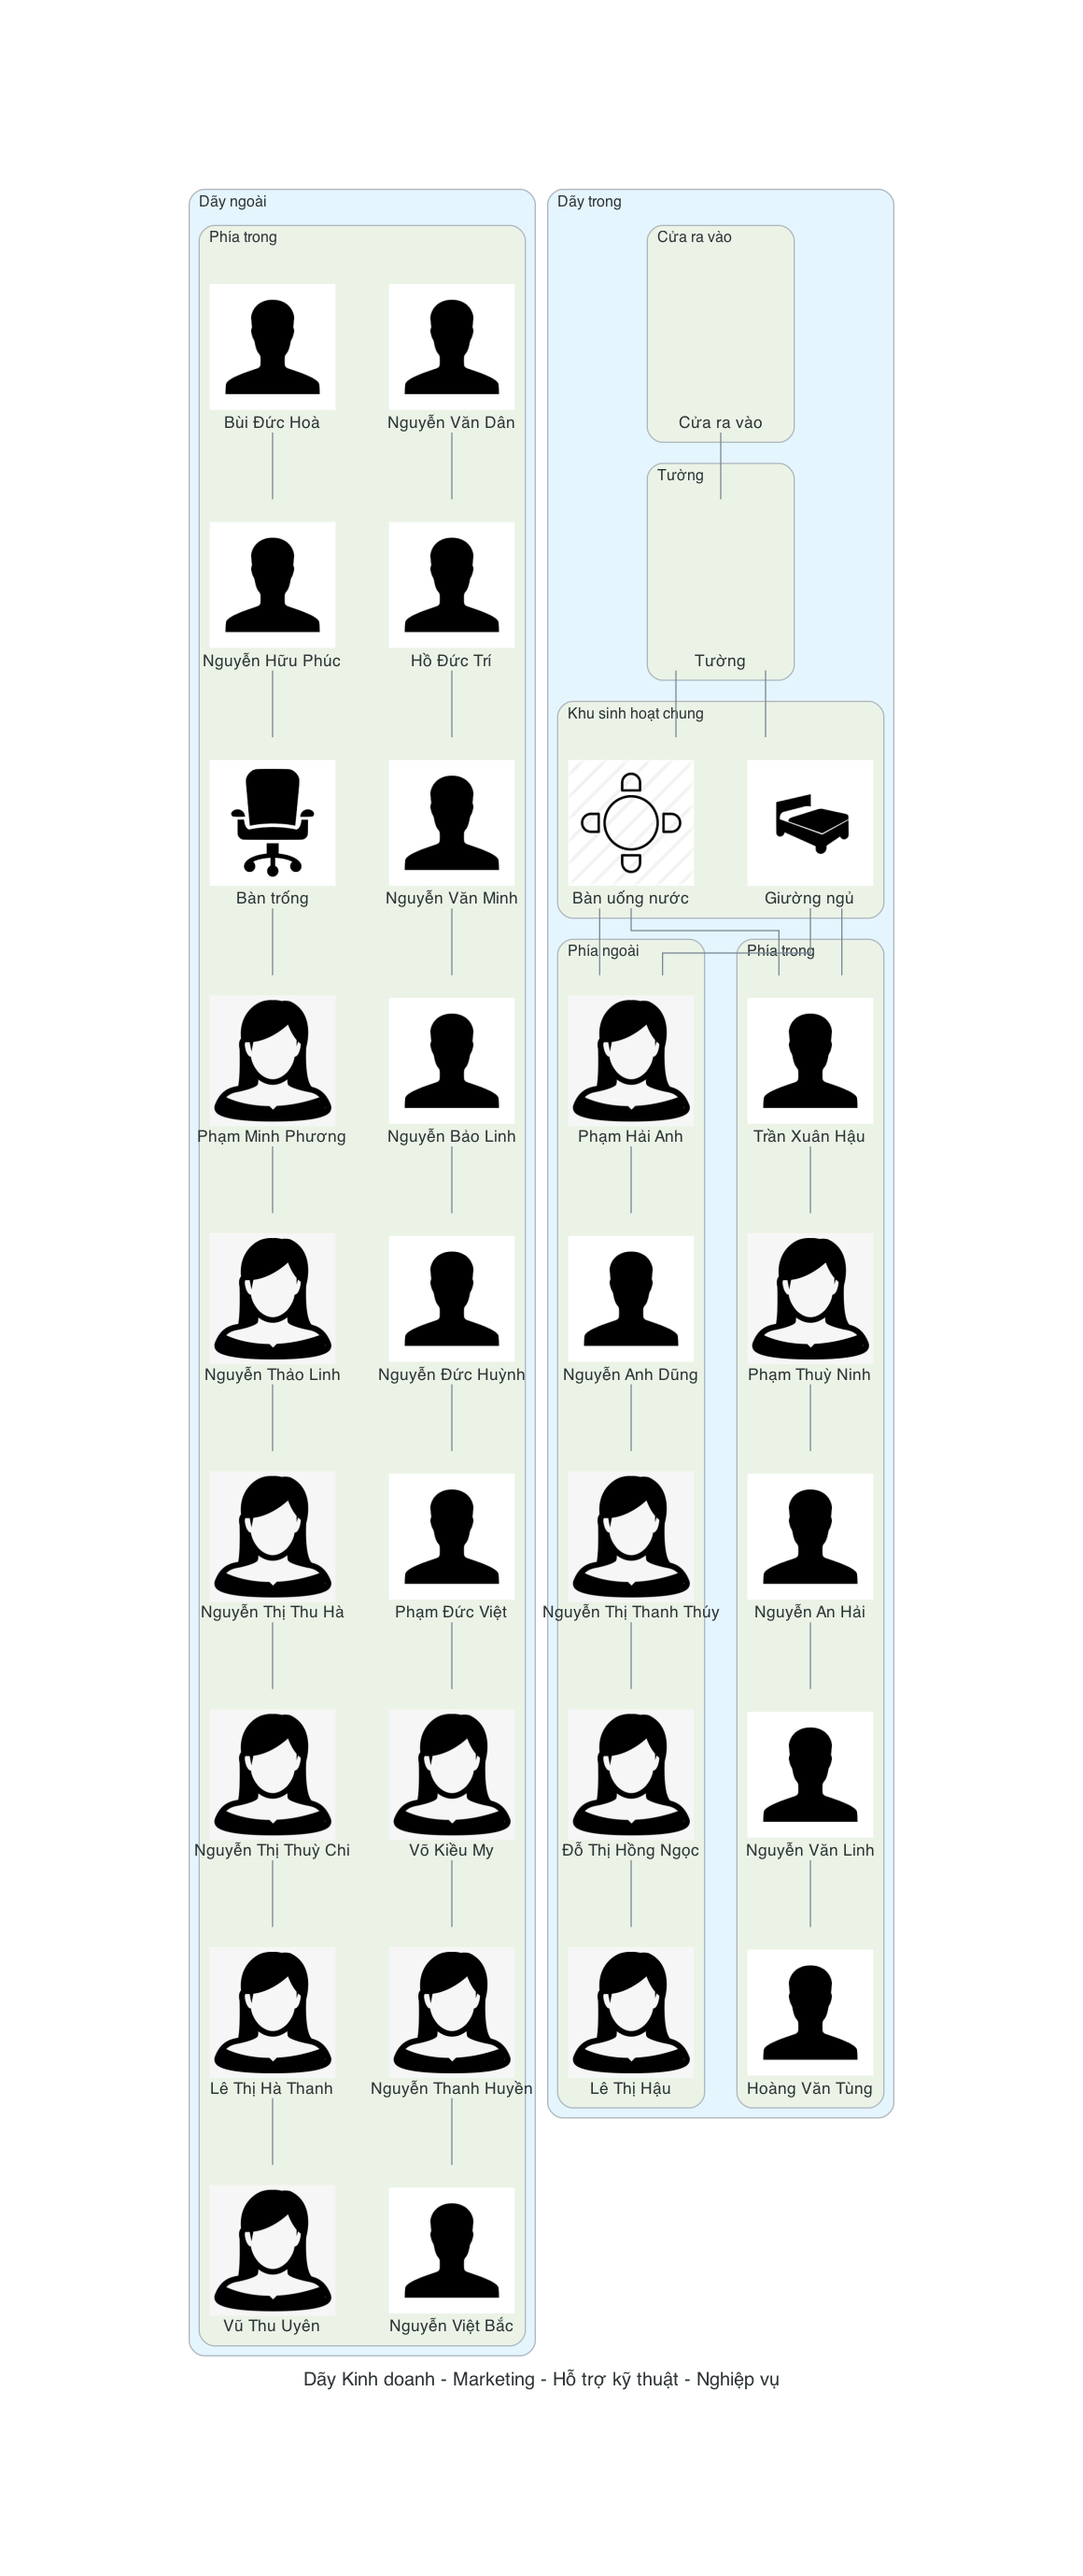
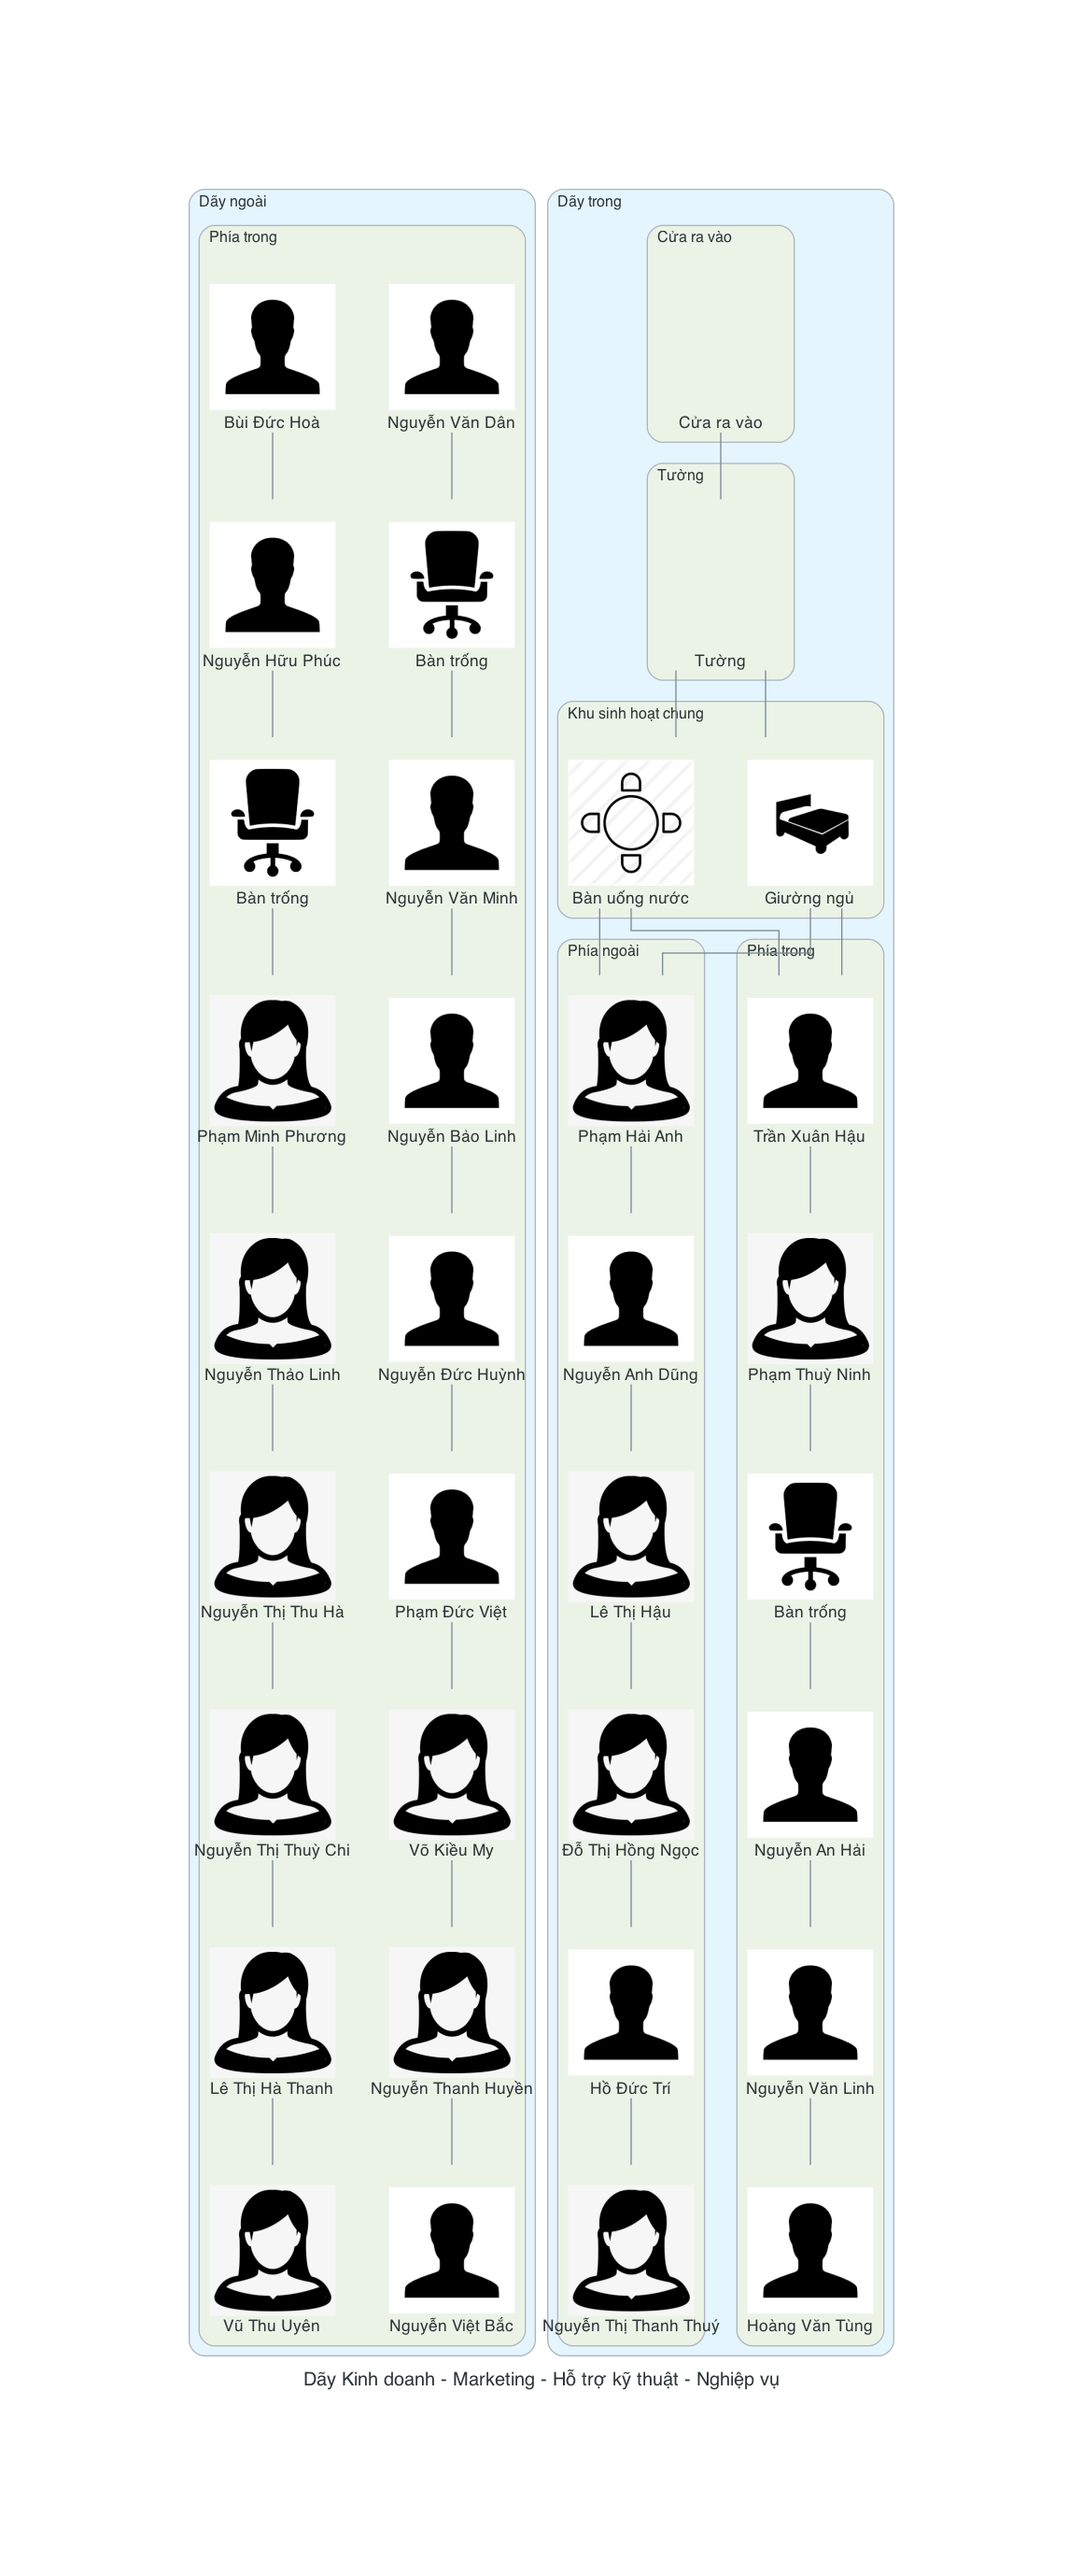
update

Changed region(s): [[0.4966, 0.7486, 0.8379, 0.9358], [0.7138, 0.5615, 0.8069, 0.6239], [0.3724, 0.1872, 0.4655, 0.2495]]

diff --git a/office/office.py b/office/office.py
@@ -60,7 +60,7 @@ with Diagram("Dãy Công nghệ, kỹ thuật, kế toán", filename='office/day
             Custom("Nguyễn Mạnh Dũng", male_icon) - Custom("Bùi Văn Hổ", male_icon) - Custom("Bàn trống", chair_icon) - Blank("")
         with Cluster("Phía ngoài"):
             Custom("Bàn trống", chair_icon) - Custom("Bàn trống", chair_icon) - Custom("Đặng Vặn Tiễu", male_icon) - \
-            Custom("Nguyễn Tiến Việt", male_icon) - Custom("Trần Quốc Trung", male_icon) - Custom("Lê Chử Hữu Hà", male_icon) - Blank("")
+            Custom("Nguyễn Tiến Việt", male_icon) - Custom("Phạm Quốc Chung", male_icon) - Custom("Lê Chử Hữu Hà", male_icon) - Blank("")
     with Cluster("Dãy trong"):
         with Cluster("CEO"):
             ceo = [Custom("Nguyễn Văn Đô", male_icon)]
@@ -69,7 +69,7 @@ with Diagram("Dãy Công nghệ, kỹ thuật, kế toán", filename='office/day
             Custom("Lương Văn Minh", male_icon) - Custom("Phan Đình Khánh", male_icon) - Custom("Đỗ Văn Thiên", male_icon)
         with Cluster("Phía trong"):
             [ceo - Custom("Nguyễn Minh Hải", male_icon)] - Custom("Vũ Trọng Kiên", male_icon) - \
-            Custom("Trung", male_icon) - Custom("Kiều Thị Hiền", female_icon) - \
+            Custom("Trần Quốc Trung", male_icon) - Custom("Kiều Thị Hiền", female_icon) - \
             Custom("Vũ Thị Thu Trang", female_icon) - Custom("Nguyễn Thuỳ Linh", female_icon)
         
     
@@ -77,7 +77,7 @@ with Diagram("Dãy Công nghệ, kỹ thuật, kế toán", filename='office/day
 with Diagram("Dãy Kinh doanh - Marketing - Hỗ trợ kỹ thuật - Nghiệp vụ", filename='office/day_ben_phai', show=False, direction="TB"):
     with Cluster("Dãy ngoài"):
         with Cluster("Phía trong"):
-            Custom("Nguyễn Văn Dân", male_icon) - Custom("Hồ Đức Trí", male_icon) - Custom("Nguyễn Văn Minh", male_icon) -\
+            Custom("Nguyễn Văn Dân", male_icon) - Custom("Bàn trống", chair_icon) - Custom("Nguyễn Văn Minh", male_icon) -\
             Custom("Nguyễn Bảo Linh", male_icon) - Custom("Nguyễn Đức Huỳnh", male_icon) - Custom("Phạm Đức Việt", male_icon) - \
             Custom("Võ Kiều My", female_icon) - Custom("Nguyễn Thanh Huyền", female_icon) - Custom("Nguyễn Việt Bắc", male_icon)
         with Cluster("Phía trong"):
@@ -94,10 +94,11 @@ with Diagram("Dãy Kinh doanh - Marketing - Hỗ trợ kỹ thuật - Nghiệp v
             khu_sinh_hoat_chung = [Custom("Giường ngủ", bed_icon), Custom("Bàn uống nước", desk_circle_icon)]
         with Cluster("Phía ngoài"):
             [khu_sinh_hoat_chung - Custom("Phạm Hải Anh", female_icon)] - Custom("Nguyễn Anh Dũng", male_icon) -\
-            Custom("Nguyễn Thị Thanh Thúy", female_icon) - Custom("Đỗ Thị Hồng Ngọc", female_icon) - \
-            Custom("Lê Thị Hậu", female_icon)
+            Custom("Lê Thị Hậu", female_icon) - Custom("Đỗ Thị Hồng Ngọc", female_icon) - \
+            Custom("Hồ Đức Trí", male_icon) - Custom("Nguyễn Thị Thanh Thuý", female_icon)
         with Cluster("Phía trong"):
             [khu_sinh_hoat_chung - Custom("Trần Xuân Hậu", male_icon)] - Custom("Phạm Thuỳ Ninh", female_icon) -\
+            Custom("Bàn trống", chair_icon) - \
             Custom("Nguyễn An Hải", male_icon) - Custom("Nguyễn Văn Linh", male_icon) - Custom("Hoàng Văn Tùng", male_icon)
         cua_ra_vao - tuong - khu_sinh_hoat_chung
     
